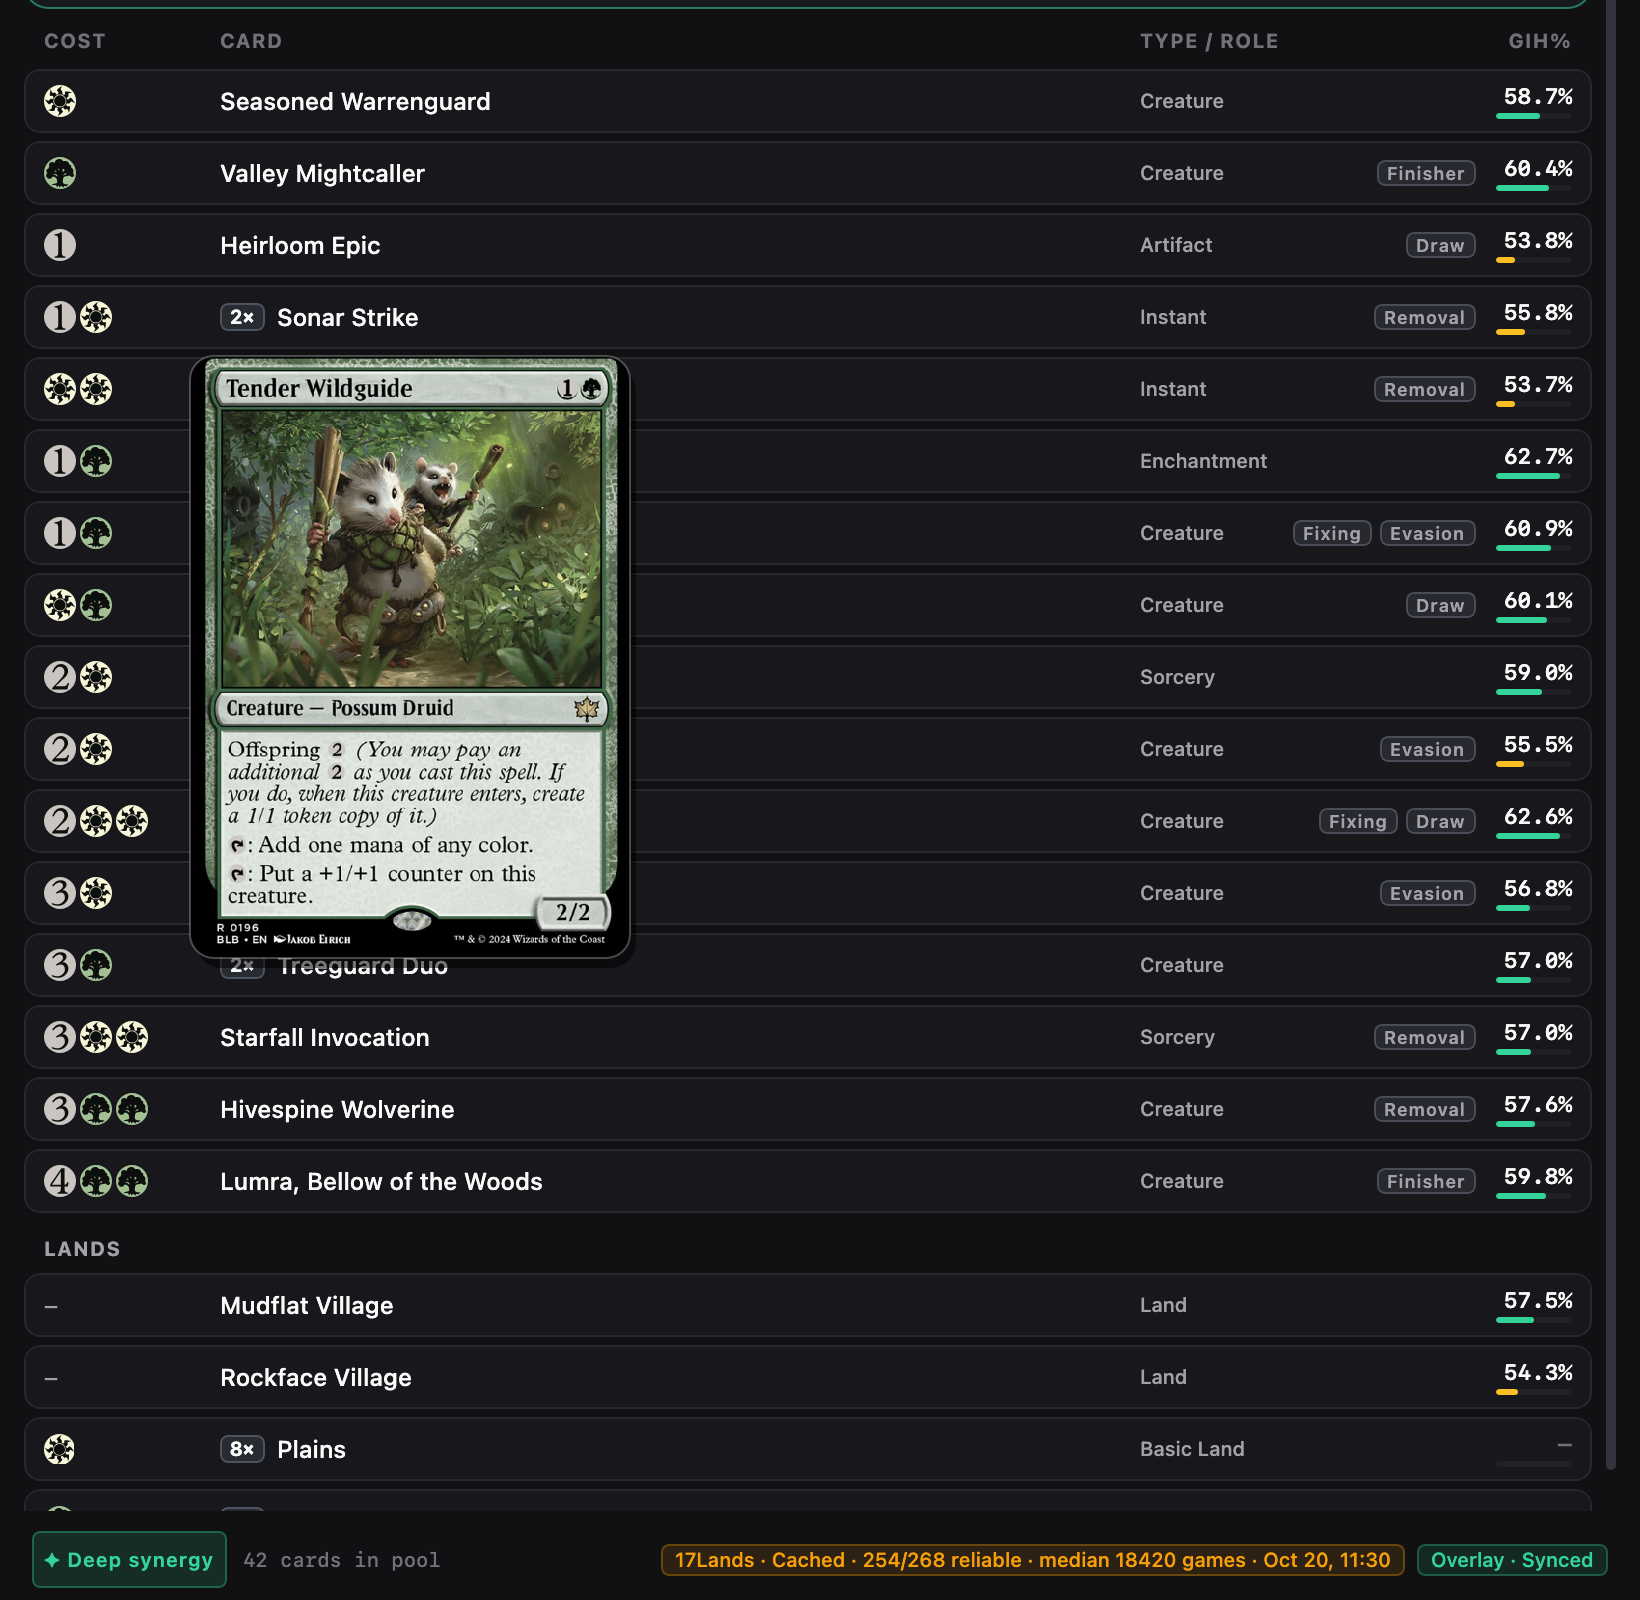
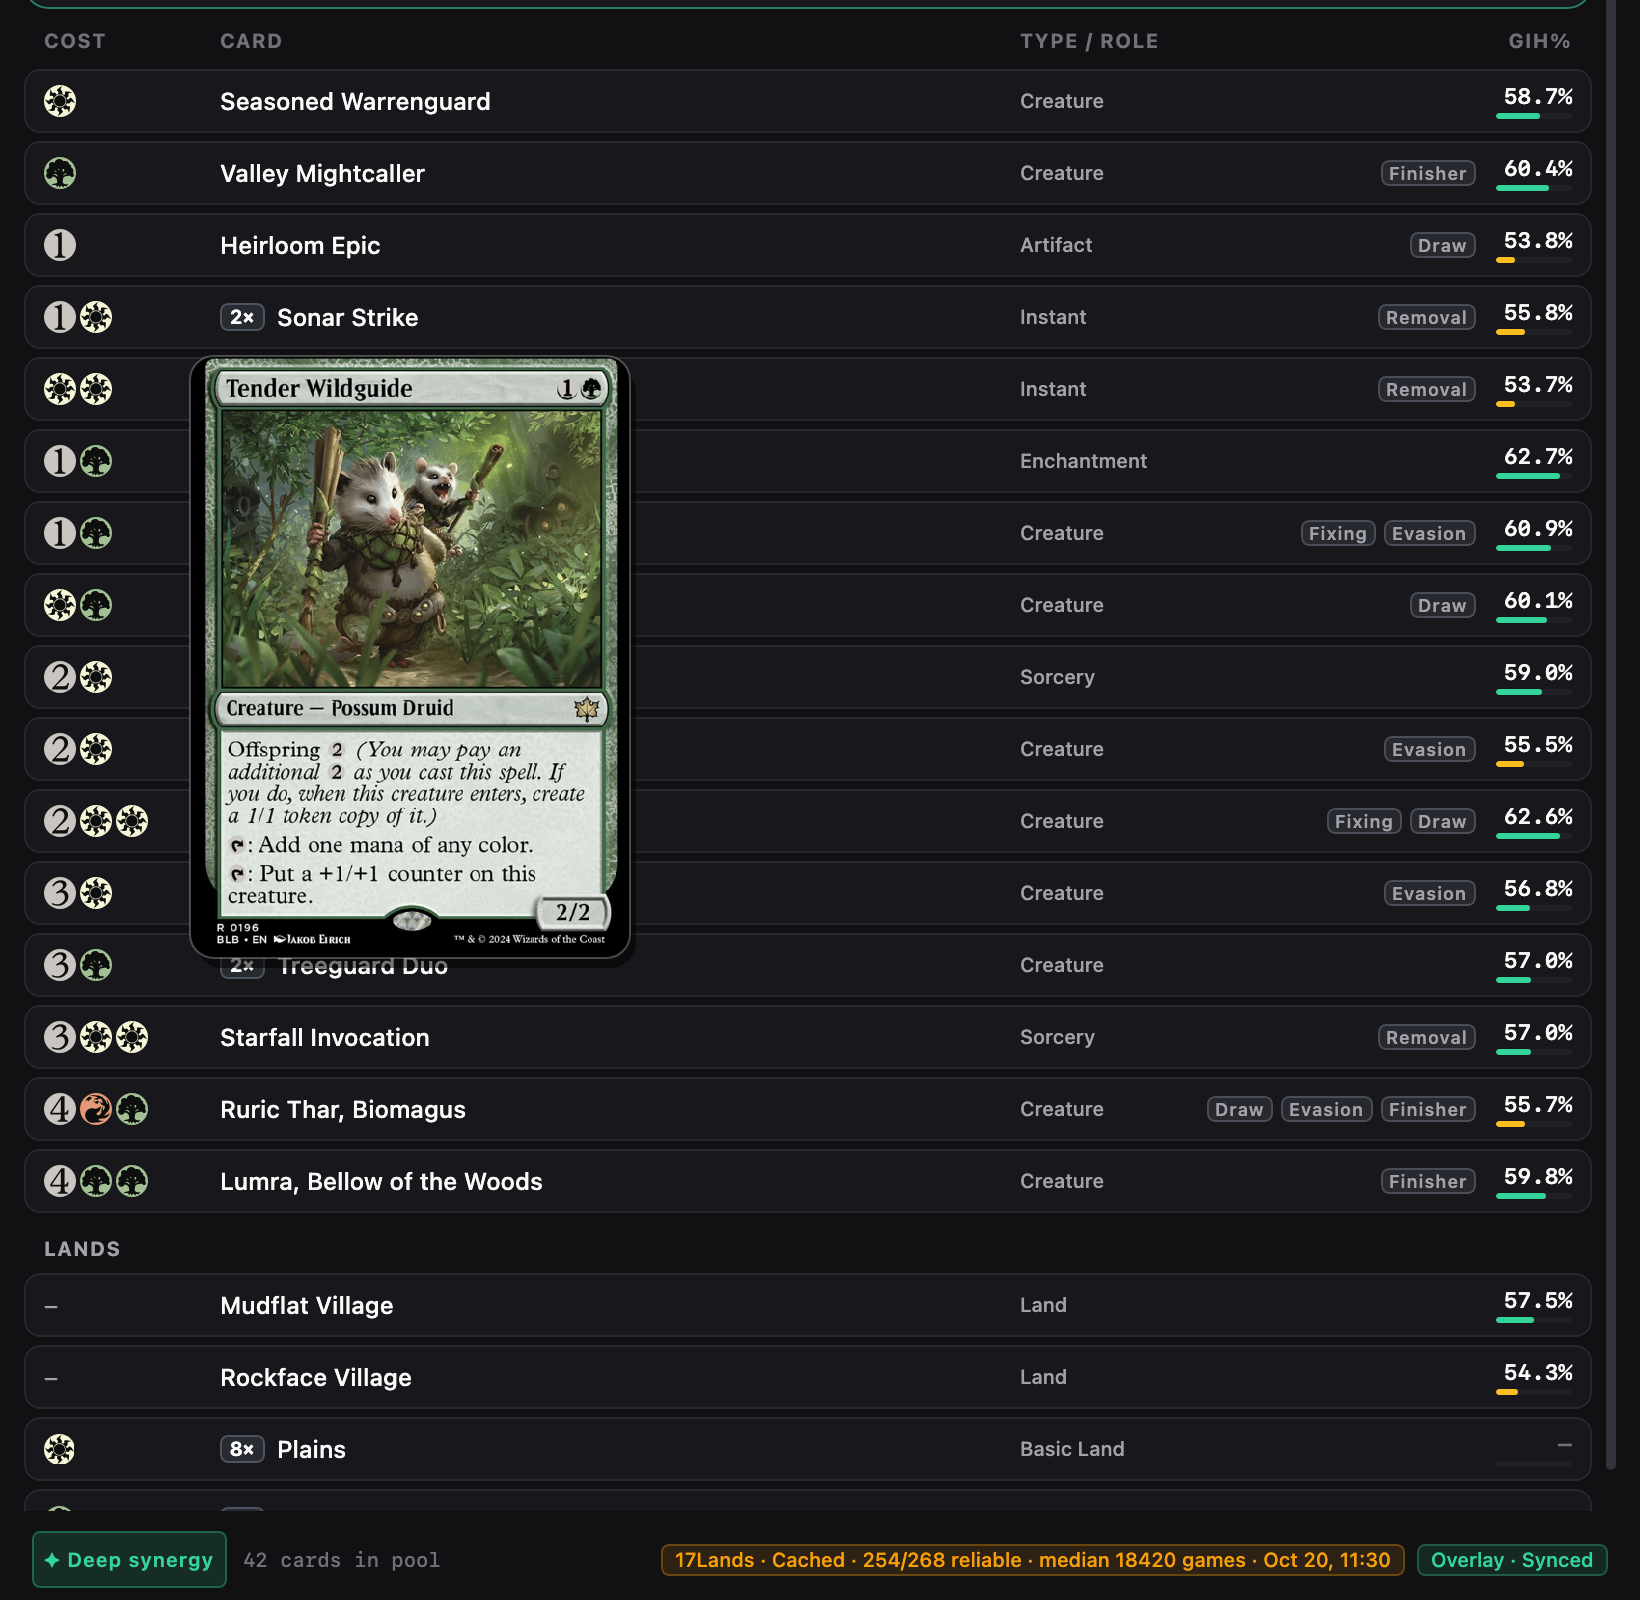
v2.2.8: prevent card type truncation by widening TYPE/ROLE column and prioritizing type label

diff --git a/src/main/kotlin/com/firstpick/ui/DeckBuilderPane.kt b/src/main/kotlin/com/firstpick/ui/DeckBuilderPane.kt
@@ -387,7 +387,7 @@ private fun ScrollableDeckPane(content: LazyListScope.() -> Unit) {
 }
 
 internal val DeckRowHeight = 32.dp
-internal val DeckTypeRoleWidth = 168.dp
+internal val DeckTypeRoleWidth = 228.dp
 
 @Composable
 private fun DeckListHeader() {
@@ -507,17 +507,21 @@ private fun DeckSpellRow(s: DeckSpellUi, muted: Boolean = false) {
                 style = AppTheme.typography.micro,
                 color = AppTheme.colors.textSecondary,
                 maxLines = 1,
+                softWrap = false,
                 overflow = TextOverflow.Ellipsis,
-                modifier = Modifier.weight(1f, fill = false),
             )
             if (s.roles.isNotEmpty()) {
-                Spacer(Modifier.width(5.dp))
+                Spacer(Modifier.width(4.dp))
                 Row(
                     horizontalArrangement = Arrangement.spacedBy(4.dp),
                     verticalAlignment = Alignment.CenterVertically,
                 ) {
-                    for (role in s.roles) {
+                    val displayRoles = if (s.roles.size <= 3) s.roles else s.roles.take(2)
+                    for (role in displayRoles) {
                         RoleChip(role)
+                    }
+                    if (s.roles.size > displayRoles.size) {
+                        MoreRolesChip(s.roles.drop(displayRoles.size))
                     }
                 }
             }
@@ -537,6 +541,34 @@ private fun basicLandSymbol(name: String): Char? = when (name) {
 }
 
 @Composable
+private fun MoreRolesChip(extraRoles: List<String>) {
+    AppTooltip(
+        title = "Additional Roles",
+        tooltip = extraRoles.joinToString(", ") { "$it (${reasonChipTooltip(it)})" },
+    ) {
+        Box(
+            Modifier
+                .appBadge(
+                    AppTheme.colors.info,
+                    fillAlpha = 0.12f,
+                    borderAlpha = 0.30f,
+                    shape = RoundedCornerShape(AppTheme.radii.xs),
+                )
+                .padding(horizontal = 4.dp, vertical = 1.dp),
+        ) {
+            Text(
+                "+${extraRoles.size}",
+                fontSize = 9.sp,
+                lineHeight = 11.sp,
+                fontWeight = FontWeight.SemiBold,
+                color = AppTheme.colors.textSecondary,
+                maxLines = 1,
+            )
+        }
+    }
+}
+
+@Composable
 private fun RoleChip(role: String) {
     val color = roleColor(role)
     AppTooltip(
@@ -551,7 +583,7 @@ private fun RoleChip(role: String) {
                     borderAlpha = 0.30f,
                     shape = RoundedCornerShape(AppTheme.radii.xs),
                 )
-                .padding(horizontal = 5.dp, vertical = 1.dp),
+                .padding(horizontal = 4.dp, vertical = 1.dp),
         ) {
             Text(
                 role,

diff --git a/src/test/kotlin/com/firstpick/ui/DeckBuilderPaneTest.kt b/src/test/kotlin/com/firstpick/ui/DeckBuilderPaneTest.kt
@@ -83,6 +83,31 @@ class DeckBuilderPaneTest {
     @Test
     fun deckRowHeightIsFixedConstant() {
         assertEquals(32, DeckRowHeight.value.toInt())
-        assertEquals(168, DeckTypeRoleWidth.value.toInt())
+        assertEquals(228, DeckTypeRoleWidth.value.toInt())
+    }
+
+    @Test
+    fun deckSpellUiSupportsManyRolesWithoutTruncationBudgetIssues() {
+        val threeRoles = DeckSpellUi(
+            name = "Ruric Thar, Biomagus",
+            cmc = 6,
+            color = "RG",
+            gihWr = 0.557,
+            roles = listOf("Draw", "Evasion", "Finisher"),
+            typeLabel = "Creature",
+        )
+        assertEquals(3, threeRoles.roles.size)
+        assertEquals("Creature", threeRoles.typeLabel)
+
+        val fourRoles = DeckSpellUi(
+            name = "Omnath, Locus of All",
+            cmc = 5,
+            color = "WUBRG",
+            gihWr = 0.580,
+            roles = listOf("Removal", "Draw", "Evasion", "Finisher"),
+            typeLabel = "Creature",
+        )
+        assertEquals(4, fourRoles.roles.size)
+        assertEquals(listOf("Removal", "Draw", "Evasion", "Finisher"), fourRoles.roles)
     }
 }
